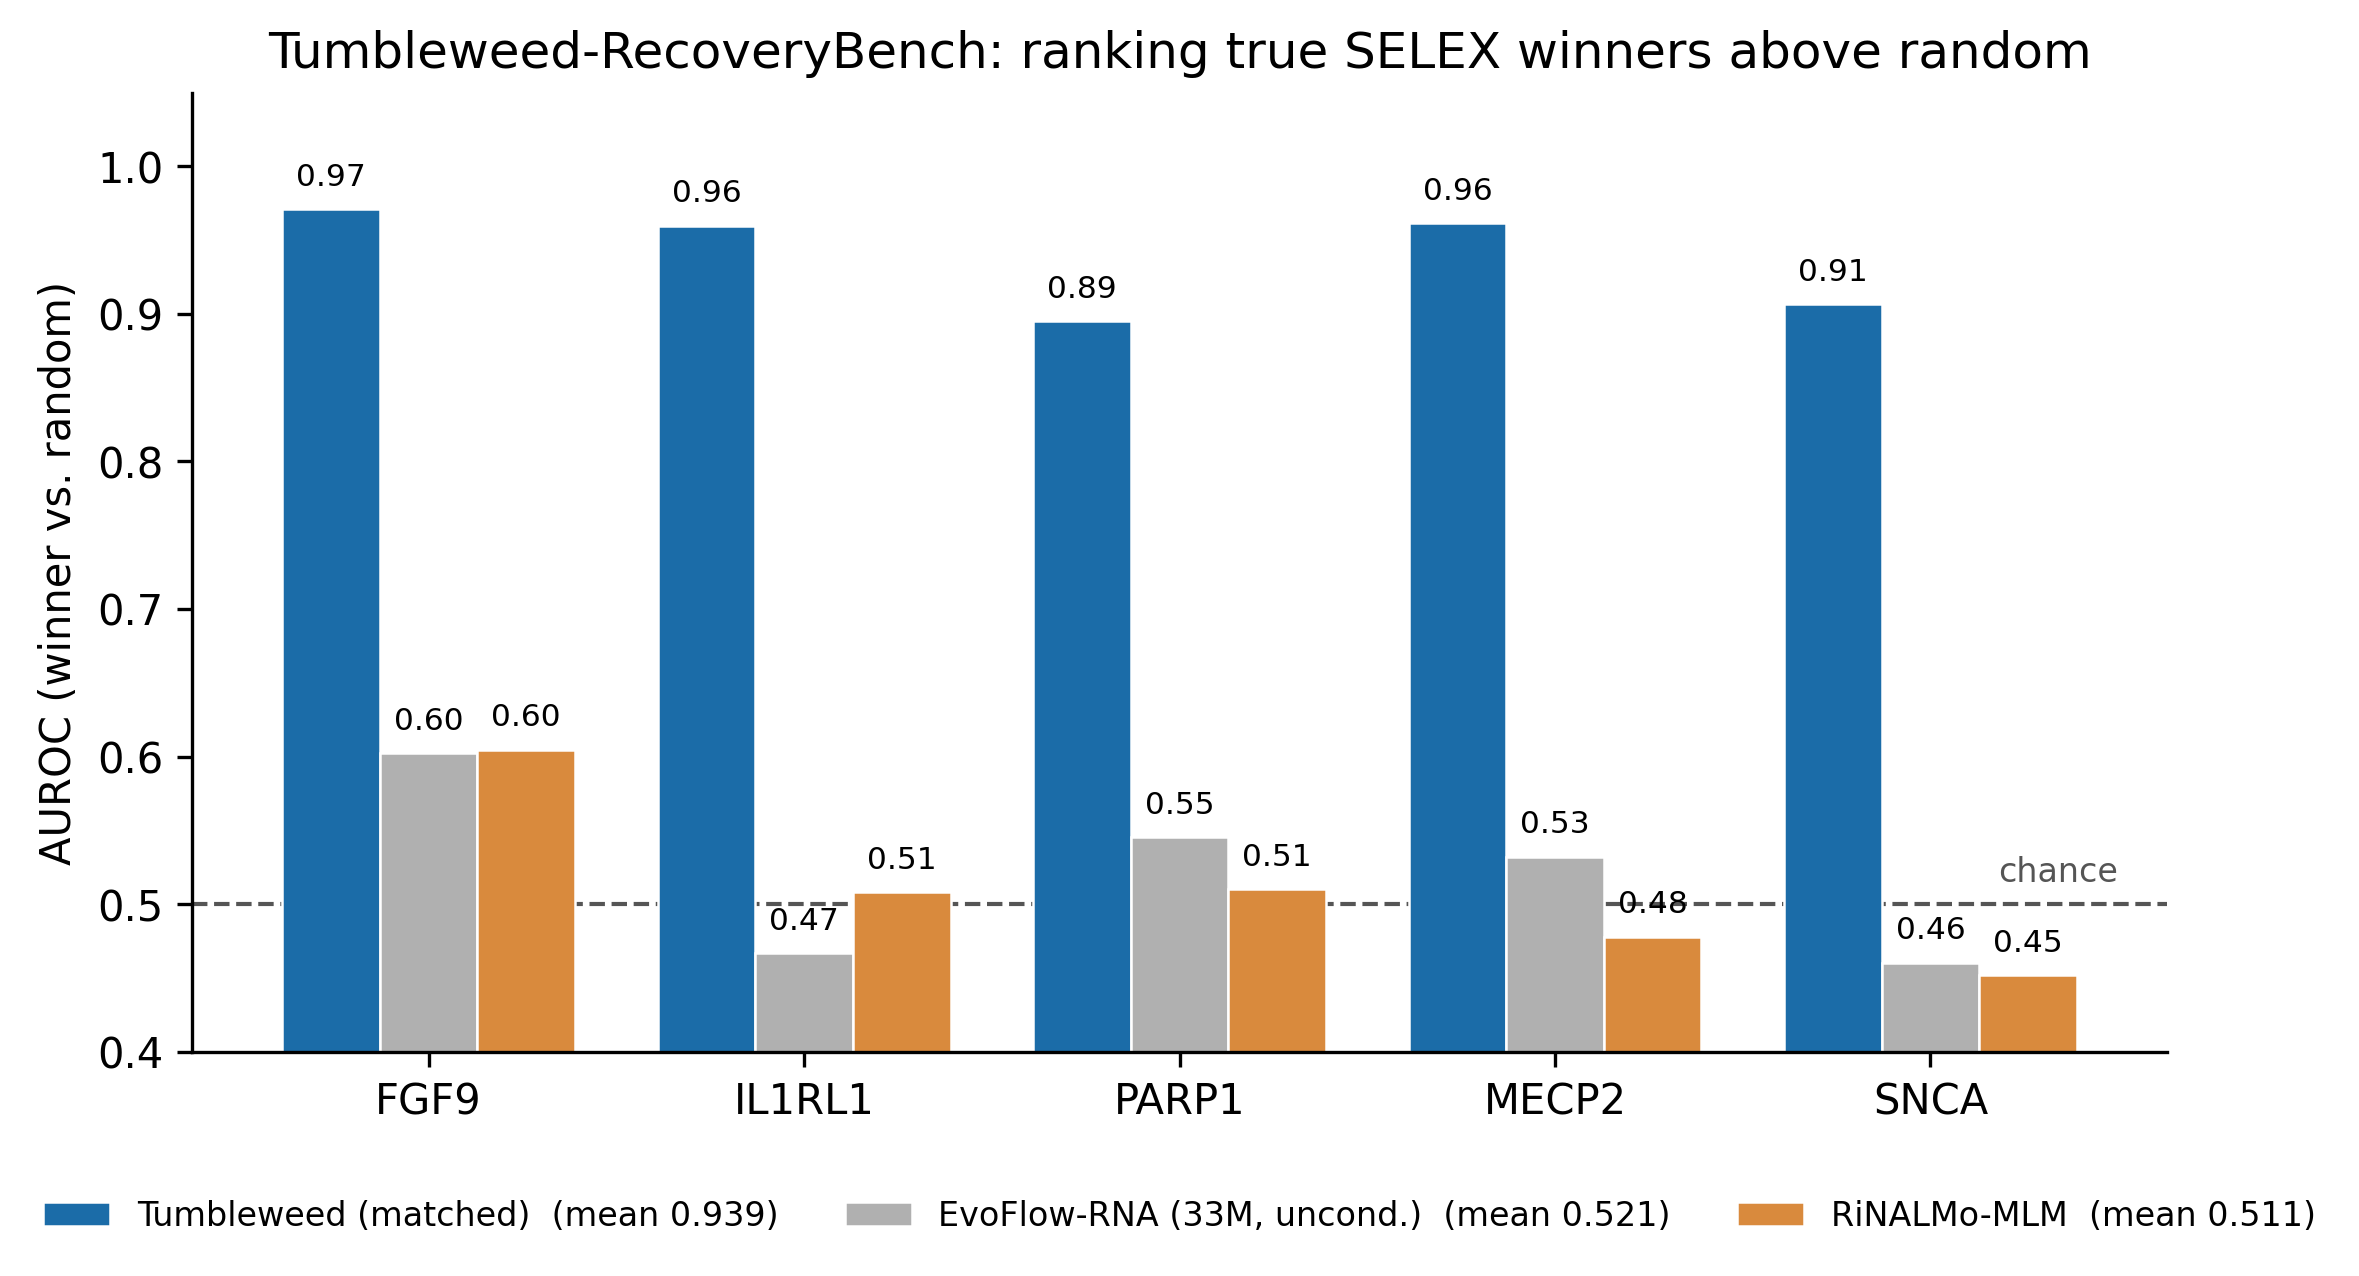
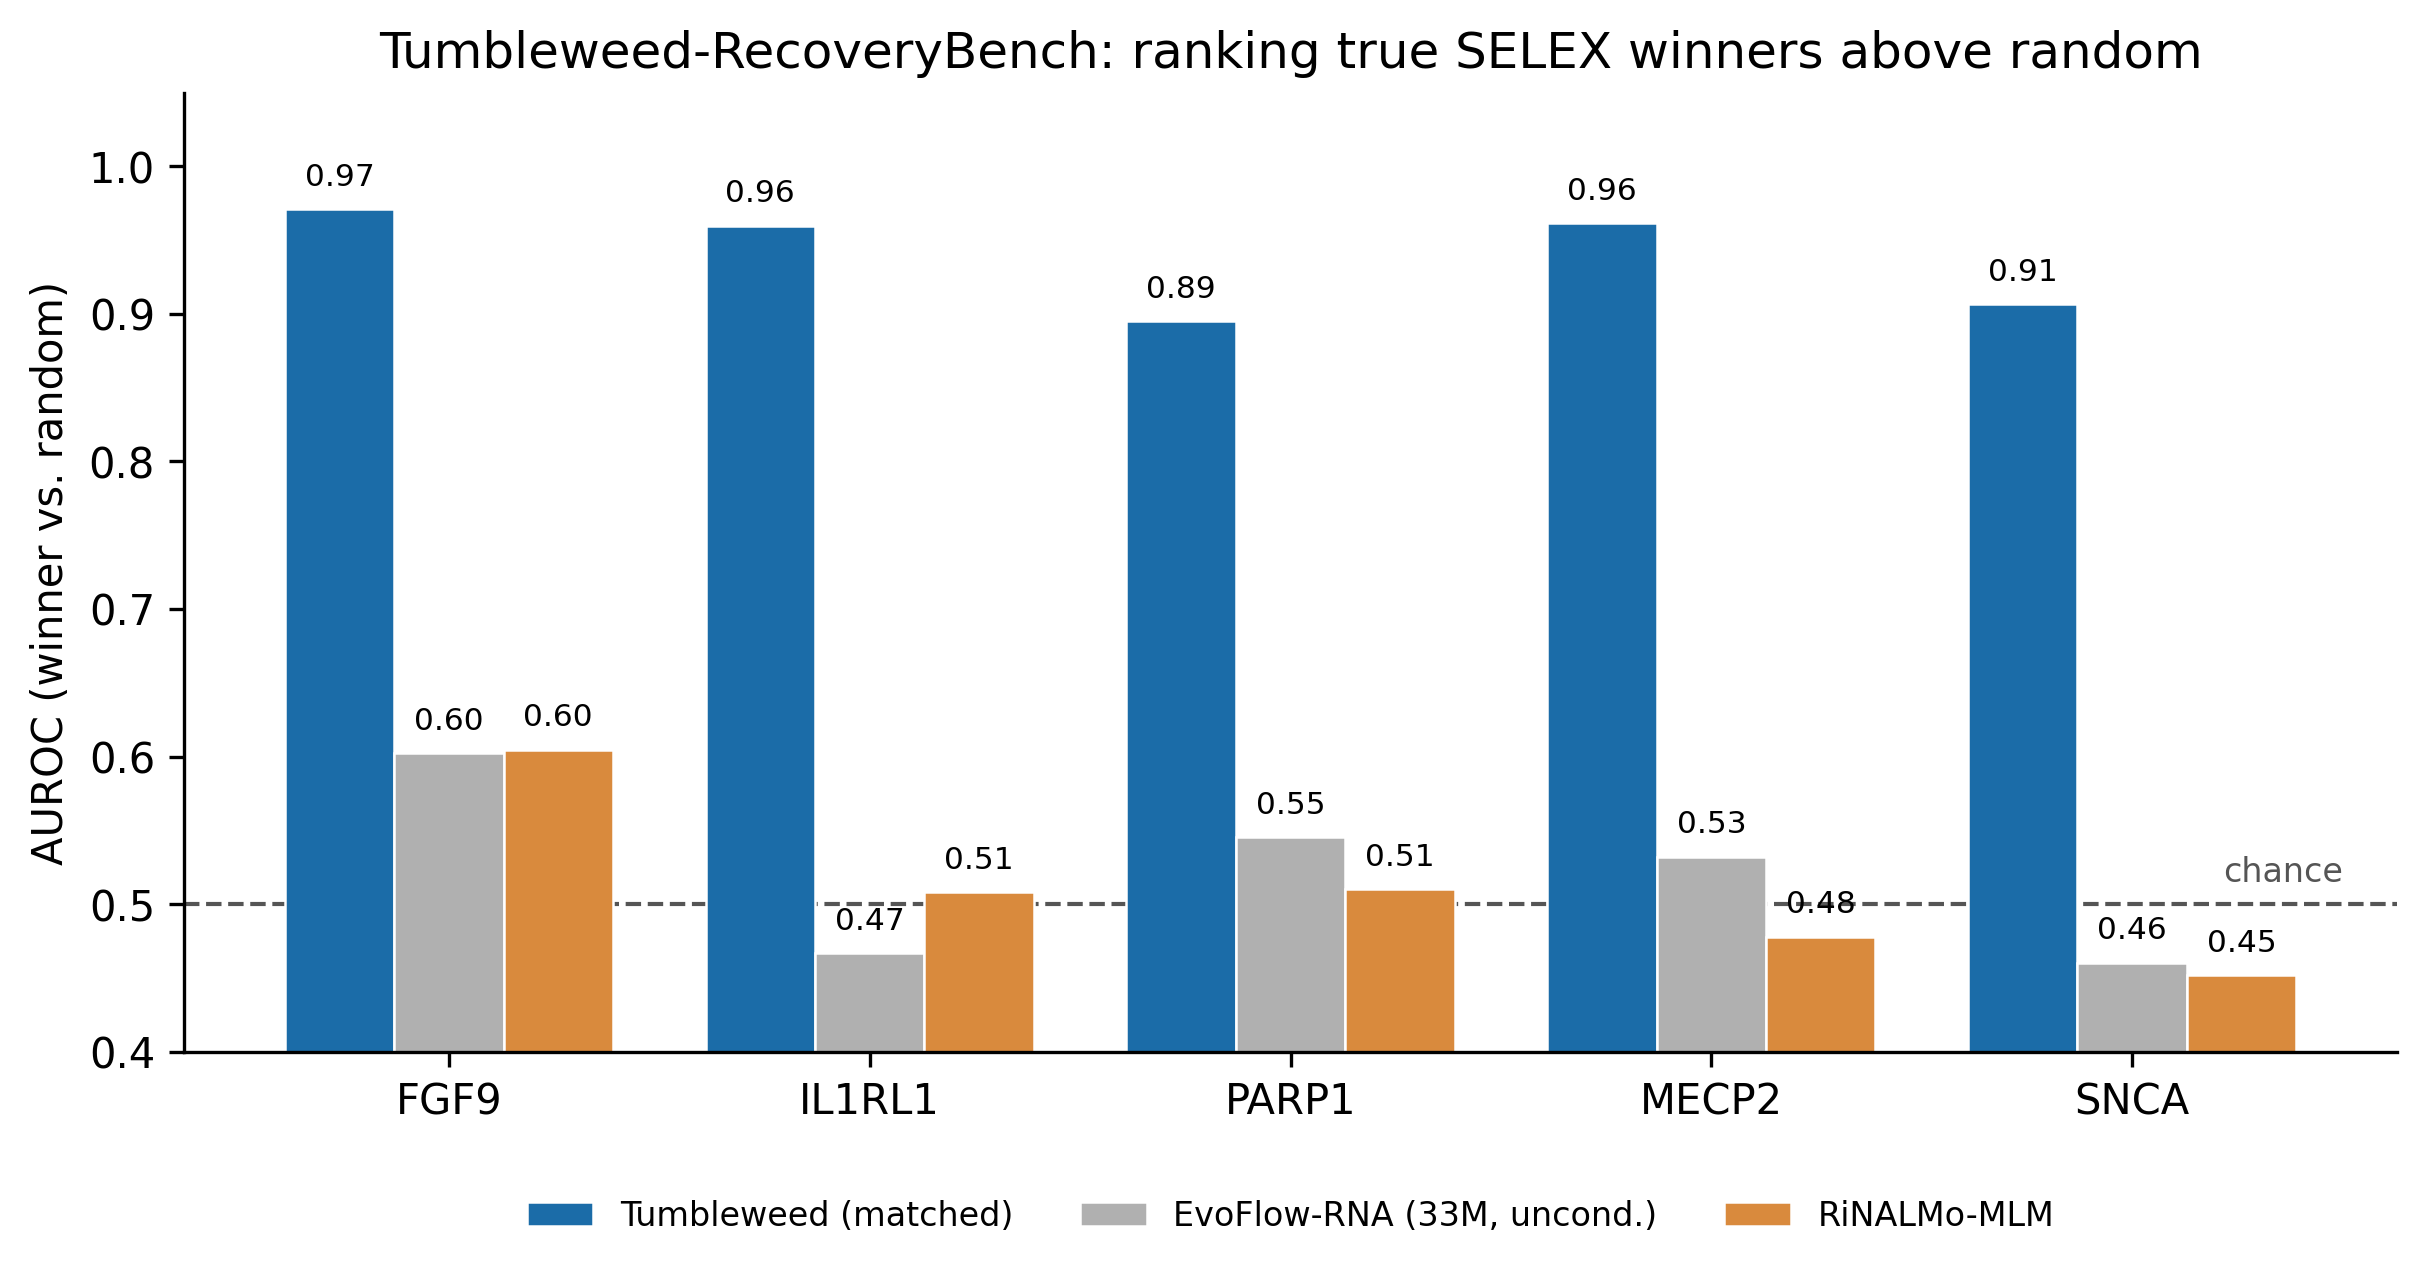
Figure polish: drop per-model means from Fig 4 legend (kept in text/Table S2); fix Fig 1 DENOISE-pass label overlapping its connector arrow
Claude-Session: https://claude.ai/code/session_01L2soZ3pDAophFj5k5TQrVb

diff --git a/scripts/fig_architecture_detailed.py b/scripts/fig_architecture_detailed.py
@@ -100,9 +100,9 @@ def main():
             color=ORANGE, weight='bold', style='italic')
 
     # ===================== SINGLE DENOISE PASS =====================
-    ax.text(2.55, 6.45, 'DENOISE pass', ha='center', va='center', fontsize=9.5,
+    ax.text(2.55, 6.62, 'DENOISE pass', ha='center', va='center', fontsize=9.5,
             color=BLUE, weight='bold')
-    ax.text(2.55, 6.22, 'masked ids,  t = round-t   (trunk run once per step)',
+    ax.text(2.55, 6.42, 'masked ids,  t = round-t   (trunk run once per step)',
             ha='center', va='center', fontsize=7.8, color=GREY, style='italic')
     box(ax, 0.7, 5.30, 3.7, 0.62,
         'dense → GELU → norm\nlogits = h·Eᵀ + bias   (B, L, V)', LBLUE, BLUE,
@@ -111,8 +111,10 @@ def main():
         'L_denoise\nweighted CE on masked positions\n(EvoFlow-style, weight 1/t, clamp [1/300, 1])',
         LGREEN, GREEN, fontsize=7.8)
 
-    # trunk → denoise head → loss (single straight column)
-    arrow(ax, (tx + tw / 2, 7.05), (tx + tw / 2, 5.92), color=BLUE)
+    # trunk → [DENOISE pass label] → denoise head → loss. Two short arrows bracket the
+    # label so the connector never runs through the text.
+    arrow(ax, (tx + tw / 2, 7.05), (tx + tw / 2, 6.80), color=BLUE)
+    arrow(ax, (2.55, 6.24), (2.55, 5.95), color=BLUE)
     arrow(ax, (2.55, 5.30), (2.55, 4.92), color=BLUE)
 
     # ===================== OBJECTIVE =====================

diff --git a/scripts/fig2_recoverybench_bars.py b/scripts/fig2_recoverybench_bars.py
@@ -58,7 +58,8 @@ def main():
     ax.set_ylabel('AUROC (winner vs. random)')
     ax.set_ylim(0.4, 1.05)
     ax.set_title('Tumbleweed-RecoveryBench: ranking true SELEX winners above random')
-    handles_labels = [f'{lab}  (mean {means[lab]:.3f})' for _, lab, _ in SERIES]
+    # Legend shows model names only; per-model means live in the manuscript text/Table S2.
+    handles_labels = [lab for _, lab, _ in SERIES]
     ax.legend(ax.containers, handles_labels, loc='lower center', ncol=3,
               fontsize=8, frameon=False, bbox_to_anchor=(0.5, -0.22))
     for s in ('top', 'right'):